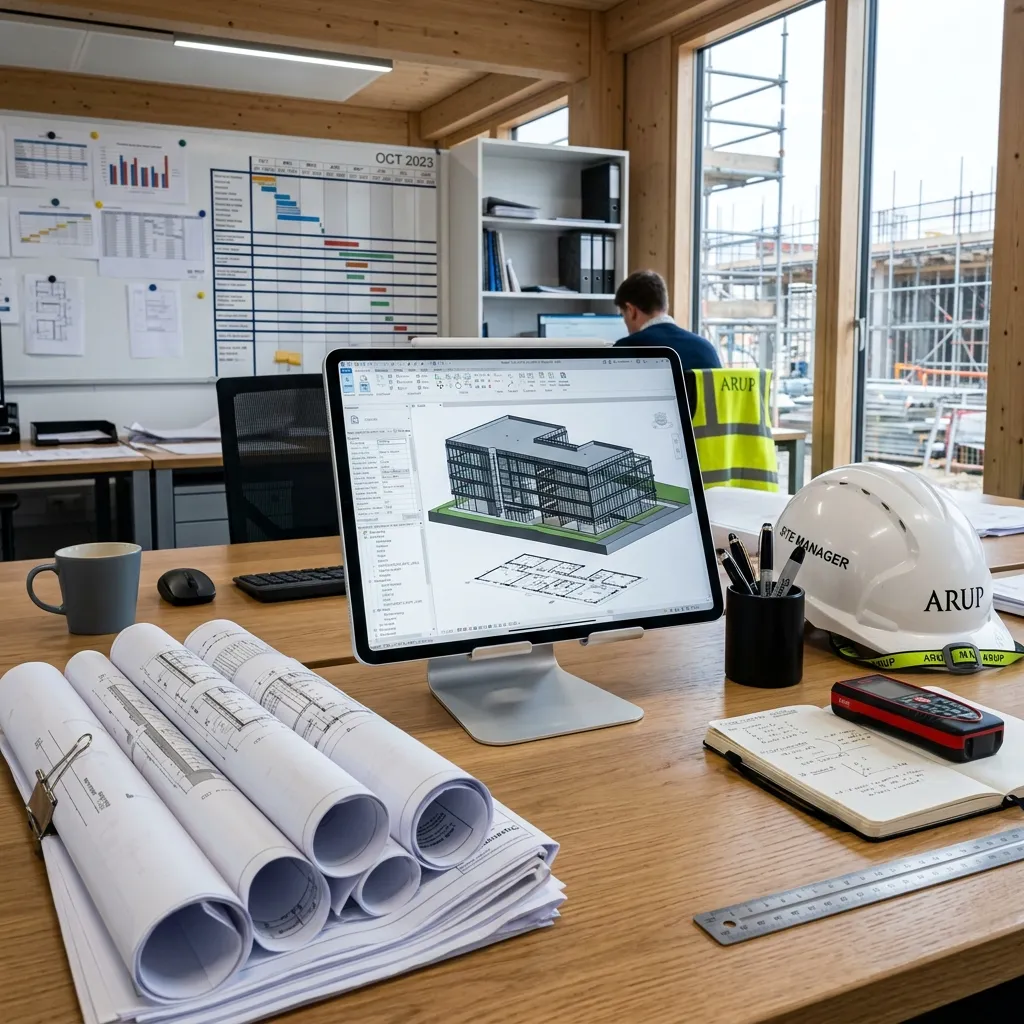
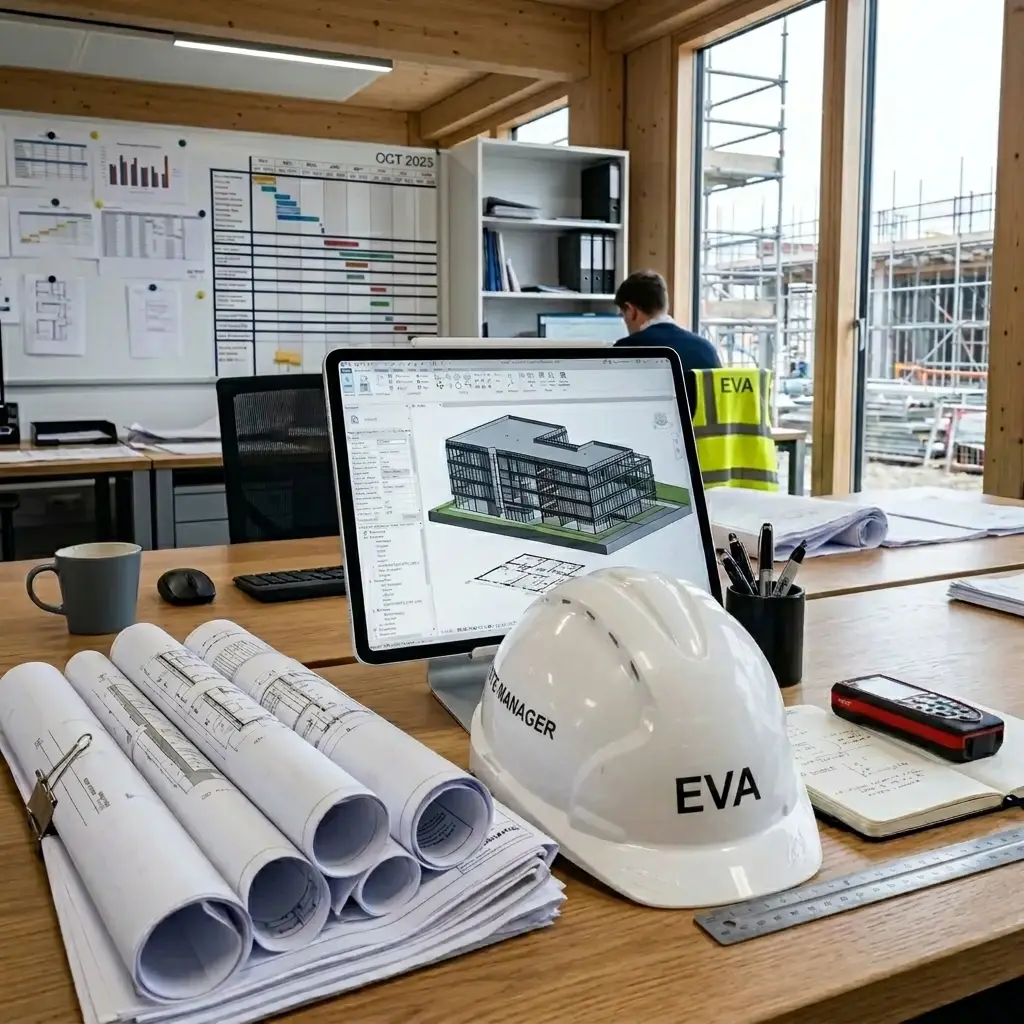
Content Update: Update project areas for Maison Asnières and Duplex Neuilly

diff --git a/src/components/Projets.tsx b/src/components/Projets.tsx
@@ -55,7 +55,7 @@ export const PROJECTS: Project[] = [
       `${import.meta.env.BASE_URL}images/projets/p3-3.webp`
     ],
     details: "Rénovation complète d'une maison particulière de caractère avec intégration d'écuries transformées en cuisine moderne. Création de surfaces habitables supplémentaires et aménagement d'espaces en sous-sol avec décoration sur-mesure.",
-    metrics: { area: "300m²", duration: "9 mois", budget: "N/A" },
+    metrics: { area: "360m²", duration: "9 mois", budget: "N/A" },
     likes: "567",
     caption: "Cuisine dans d'anciens boxes & sous-sol",
     annotation: "Cuisine & Extension sous-sol"
@@ -88,8 +88,8 @@ export const PROJECTS: Project[] = [
       `${import.meta.env.BASE_URL}images/projets/p5-2.webp`,
       `${import.meta.env.BASE_URL}images/projets/p5-3.webp`
     ],
-    details: "Rénovation totale et modification structurelle d'un duplex de 400m² avec aménagement d'une terrasse offrant une vue sur Paris et la Tour Eiffel. Conception sur-mesure, exigences techniques et suivi de chantier rigoureux (12 mois).",
-    metrics: { area: "400m²", duration: "12 mois", budget: "N/A" },
+    details: "Rénovation totale et modification structurelle d'un duplex de 440m² avec aménagement d'une terrasse offrant une vue sur Paris et la Tour Eiffel. Conception sur-mesure, exigences techniques et suivi de chantier rigoureux (12 mois).",
+    metrics: { area: "440m²", duration: "12 mois", budget: "N/A" },
     likes: "124",
     caption: "Duplex & terrasse vue Tour Eiffel",
     annotation: "Duplex & Terrasse panoramique"
